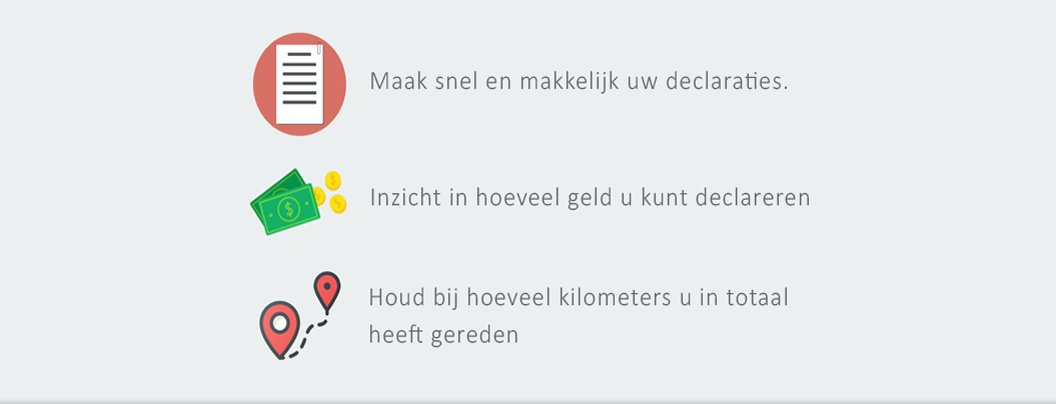
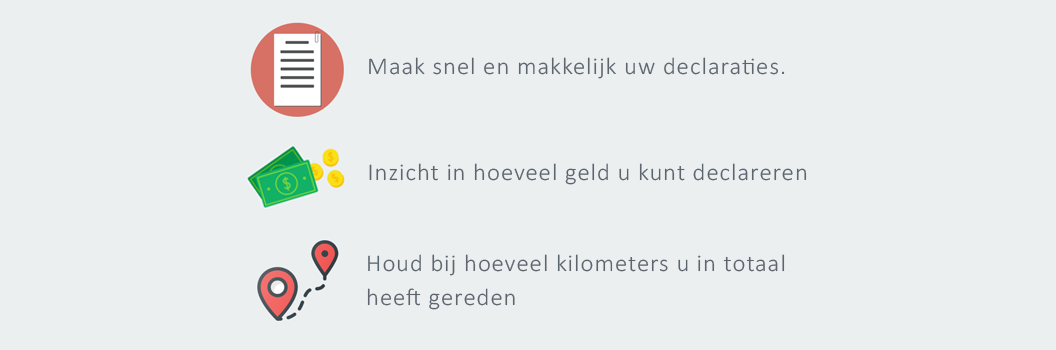
mergeman

diff --git a/src/app/app.module.ts b/src/app/app.module.ts
@@ -23,7 +23,7 @@ import { DeletePopupComponent } from './main/shared/delete-popup/delete-popup.co
 import {
   MAT_DATE_LOCALE,
   MatCheckboxModule,
-  MatDatepickerModule,
+  MatDatepickerModule, MatIconModule,
   MatInputModule,
   MatNativeDateModule, MatOptionModule,
   MatProgressSpinnerModule,
@@ -40,8 +40,8 @@ import {CarService} from './services/car.service';
 import {ClientService} from './services/client.service';
 import {ProjectService} from './services/project.service';
 import {TableFilterPipe} from "./table-filter.pipe";
-import {MatSortModule} from "@angular/material/sort";
 import {SafePipe} from './main/declarations/create-declaration/safe.pipe';
+import {MobileSideNavComponent} from './header/mobile-side-nav/mobile-side-nav.component';
 
 
 @NgModule({
@@ -65,7 +65,9 @@ import {SafePipe} from './main/declarations/create-declaration/safe.pipe';
     DeletePopupComponent,
     CarsPopupComponent,
     DeclarationPopupComponent,
-    TableFilterPipe
+    TableFilterPipe,
+    SafePipe,
+    MobileSideNavComponent
   ],
   entryComponents: [
     ProfileSettingsComponent,

diff --git a/src/app/main/declarations/declarations.component.html b/src/app/main/declarations/declarations.component.html
@@ -57,7 +57,7 @@
           <td class="dashboard-text object-column" (click)="editDeclaration(declaration)" >{{declaration.licencePlate}}</td>
           <td class="dashboard-text object-column" (click)="editDeclaration(declaration)" >{{declaration.projectName}}</td>
           <td class="dashboard-text object-column" (click)="editDeclaration(declaration)" >{{declaration.decDate}}</td>
-          <td class="dashboard-text object-column" (click)="editDeclaration(declaration)" >€{{convertToNormalNotation(declaration.decDeclaration*declaration.decKilometers)}}</td>
+          <td class="dashboard-text object-column" (click)="editDeclaration(declaration)" >€{{convertToNormalNotation(declaration)}}</td>
         </ng-container>
       </tr>
       <tr *ngFor="let number of emptyRowsList; let odd=odd;" [ngClass]="emptyRowsList.length %2 === 0 ? odd ? '' :'notOdd':odd? 'notOdd':''" class="dashboard-dec-row">

diff --git a/src/app/main/declarations/create-declaration/create-declaration.component.ts b/src/app/main/declarations/create-declaration/create-declaration.component.ts
@@ -72,7 +72,7 @@ export class CreateDeclarationComponent implements OnInit {
   onCreateDeclaration() {
     const newDec = new Declaration(this.auth.getUserData().email, this.omschrijving, '12-12-2020', this.kilometers, this.declaratie,
       this.beginPostcode, this.beginHuisnummer, this.beginStraatnaam, this.beginPlaatsnaam, this.beginLand,
-      this.eindPostcode, this.eindHuisnummer, this.eindStraatnaam, this.eindPlaatsnaam, this.eindLand, this.klantNaam, this.projectNaam, this.kentekenPlaat);
+      this.eindPostcode, this.eindHuisnummer, this.eindStraatnaam, this.eindPlaatsnaam, this.eindLand, this.klantNaam, this.projectNaam, this.autoNaam);
     this.httpHandler.postDeclaration(newDec, '/declaration/create').subscribe(res => {
       this.declarationService.getDeclarationArray().subscribe();
     })

diff --git a/src/app/main/declarations/declarations.component.ts b/src/app/main/declarations/declarations.component.ts
@@ -272,17 +272,4 @@ export class DeclarationsComponent implements OnInit {
     returnMoney = returnMoney.replace('.', ',');
     return returnMoney;
   }
-
-  private checkButtons() {
-    this.pageBtnLeft = this.pageNumberMinimum >= 2;
-    this.pageBtnRight = this.pageNumberMinimum + this.maxCountPage <= this.decService.declarations.length;
-  }
-
-  private checkEmptyRows() {
-    this.generateEmptyRows = this.pageNumberMaximum - this.decService.declarations.length;
-    if (this.generateEmptyRows < 1) {
-      this.generateEmptyRows = 0;
-    }
-    this.emptyRowsList = Array(this.generateEmptyRows).fill(1)
-  }
 }

diff --git a/src/app/http-handler.service.ts b/src/app/http-handler.service.ts
@@ -20,8 +20,7 @@ import {error, log} from 'util';
 @Injectable()
 export class HttpHandlerService {
   options = {headers: new HttpHeaders().set('Content-Type', 'application/json')};
-  databaseUrl: string = "http://localhost:8080"
-    "http://h2858995.stratoserver.net:8080";
+  databaseUrl: string = "http://h2858995.stratoserver.net:8080";
   googleAPI: string = "/googleapi"
   private response: any;
 

diff --git a/src/app/account/home/home.component.scss b/src/app/account/home/home.component.scss
@@ -22,6 +22,7 @@ h3 {
   padding-left: 0;
   padding-top: 1px;
   top: 470px;
+  background-color: #ebeff0;
 }
 
 .home{
@@ -53,4 +54,5 @@ h3 {
   background: url("src/assets/images/icons.png") no-repeat;
   height: 404px;
   width: 1056px;
+  margin-top: 30px;
 }
